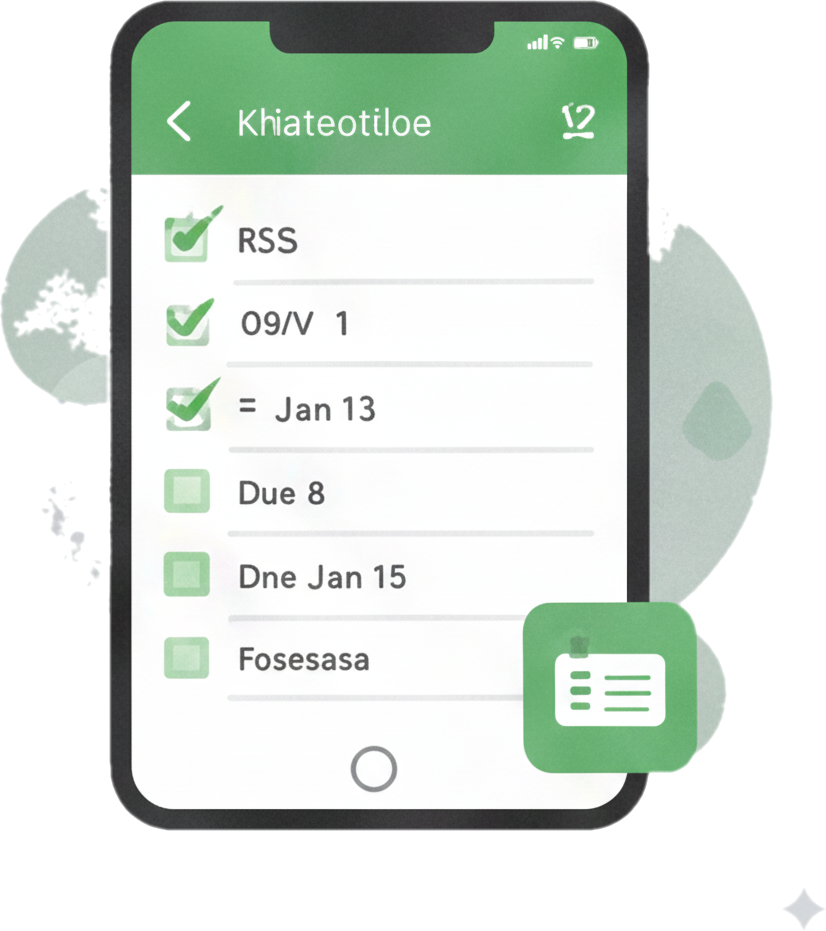
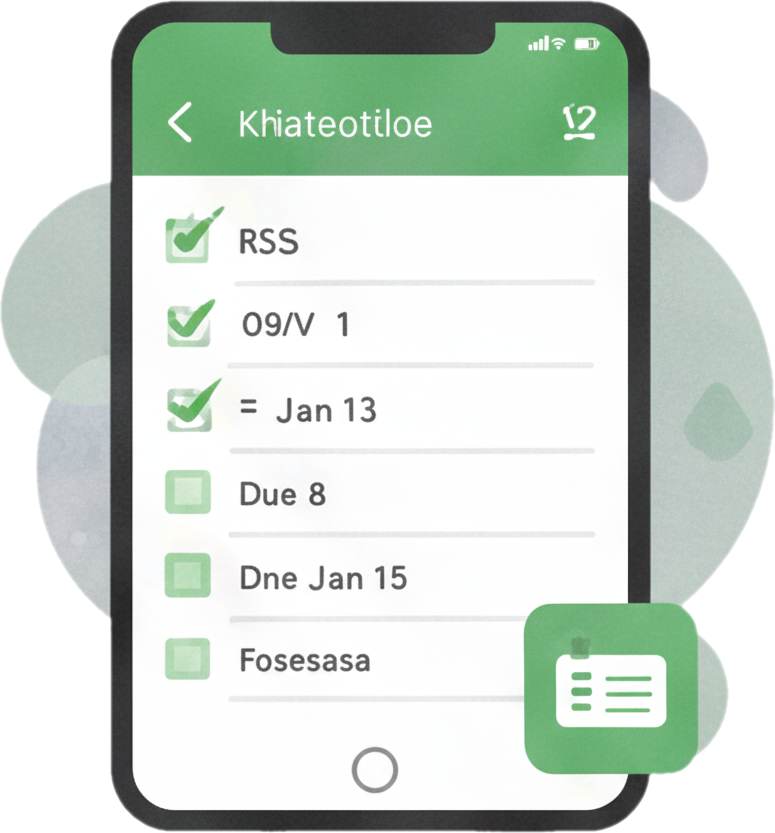
configure introslider

diff --git a/src/screens/IntroSlider/FirstScreen.tsx b/src/screens/IntroSlider/FirstScreen.tsx
@@ -13,14 +13,14 @@ import { Image, StyleSheet, View } from "react-native";
 import AppIntroSlider from "react-native-app-intro-slider";
 
 const FirstScreen = ({ onDone }) => {
+  const scrollX = useRef(new Animated.Value(0)).current;
   const sliderRef = useRef(null);
-  const FOOTER_HEIGHT = SCREEN_HEIGHT * 0.25;
 
   const slides = [
     {
       key: "1",
       title: "Welcome to HealthCard",
-      text: "Your Partner In Nurturing A Healthy ,Happy Child. Supporting you through every step of your childs care",
+      text: "Your partner in nurturing a healthy, happy child. Supporting you through every step of your childs care",
       image: images.mamaIntro,
       footerText:"Trusted.Simple"
     },
@@ -35,7 +35,7 @@ const FirstScreen = ({ onDone }) => {
       key: "3",
       title: "Post-Natal Care Shouldn’t End at Birth",
       text: "After delivery, many mothers miss vital follow-ups like growth checks, nutrition tracking, and developmental assessments.",
-      image: images.slide3,
+      image: images.slide2,
       footerText:"Consistency Matters"
     },
     {
@@ -55,7 +55,7 @@ const FirstScreen = ({ onDone }) => {
     {
       key: "6",
       title: "Simple Care. Smarter Decisions.",
-      text: "Get reminders, track nutrition, and stay informed—so you can focus on what matters most: your child’s well-being.",
+      text: "Get reminders, track nutrition, and stay informed so you can focus on what matters most: your child’s well-being.",
       image: images.slide6,
       footerText:"Let's Get Started"
     },
@@ -86,16 +86,17 @@ const renderPagination = (activeIndex) => {
               ? onDone()
               : sliderRef.current?.goToSlide(activeIndex + 1)
           }
+          style={{elevation:5}}
         />
       </View>
-      {/* <ThemedText type="text3bold" style={{fontWeight: 'bold'}}></ThemedText> */}
+      <ThemedText type="text3bold" style={{fontWeight: 'bold'}}></ThemedText>
     </View>
   );
 };
 
 
   return (
-    <View style={{ flex: 1 , alignItems:'center', justifyContent:'center', }}>
+    <View style={{ flex:1, backgroundColor: COLORS.white }}>
       <AppIntroSlider
         ref={sliderRef}
         data={slides}
@@ -106,10 +107,10 @@ const renderPagination = (activeIndex) => {
             <ThemedText type="text2" style={styles.title}>
               {item.title}
             </ThemedText>
-            <ThemedText type="text4" style={styles.description}>
+            <ThemedText type="text3" style={styles.description}>
               {item.text}
             </ThemedText>
-            <ThemedText type="text3bold" style={{color:COLORS.accent}}>{item.footerText}</ThemedText>
+            <ThemedText type="text2bold" style={{color:COLORS.accent, textTransform:'lowercase'}}>{item.footerText}</ThemedText>
           </View>
         )}
       />
@@ -132,21 +133,23 @@ const styles = StyleSheet.create({
     width: SIZES.width * 0.7,
     height: SIZES.height * 0.35,
     marginBottom: SIZES.padding,
+    alignSelf: "center",
   },
   title: {
     fontWeight: "bold",
-    marginBottom: SIZES.base,
+    marginVertical: SIZES.base,
+    fontSize:SCREEN_HEIGHT* 0.032,
   },
   description: {
     color: COLORS.inputText,
+    marginVertical: SIZES.base *2
     },
 paginationContainer: {
   position: 'absolute',
-  bottom: SIZES.padding * 2,
+  bottom: SIZES.base,
   left: 0,
   right: 0,
   alignItems: 'center',
-  backgroundColor:'red'
 },
 
   paginationDots: {
@@ -157,15 +160,17 @@ paginationContainer: {
     alignItems: "center",
   },
   dot: {
-    width: 10,
-    height: 10,
-    borderRadius: 5,
+    width: SIZES.base,
+    height: SIZES.base,
+    borderRadius: SIZES.base / 2,
     backgroundColor: COLORS.gray,
-    marginHorizontal: 4,
+    marginHorizontal: SIZES.base / 2,
+    opacity: 0.7,
   },
   activeDot: {
     backgroundColor: COLORS.primary,
-    width: 25,
+    width: SIZES.navTitle,
+    opacity:1
   },
   buttonWrapper: {
     width: SCREEN_WIDTH * 0.85,

diff --git a/src/screens/IntroSlider/SplashScreen.tsx b/src/screens/IntroSlider/SplashScreen.tsx
@@ -18,7 +18,7 @@ const SplashScreen = () => {
     <WrapView>
       <Image
         source={images.logo}
-        style={{ width: SCREEN_WIDTH * 0.4, height: SCREEN_WIDTH * 0.35, resizeMode:'contain' }}
+        style={{ width: SCREEN_WIDTH * 0.5, height: SCREEN_WIDTH * 0.4, resizeMode:'contain' }}
       />
     </WrapView>
   );

diff --git a/src/constants/images.ts b/src/constants/images.ts
@@ -9,4 +9,5 @@ export const images = {
   slide5: require("../assets/images/slide5.png"),
   slide6: require("../assets/images/slide6.png"),
   splashIcon: require("../assets/images/splash-icon.png"),
+  slide2: require("../assets/images/slide2.png"),
 };
